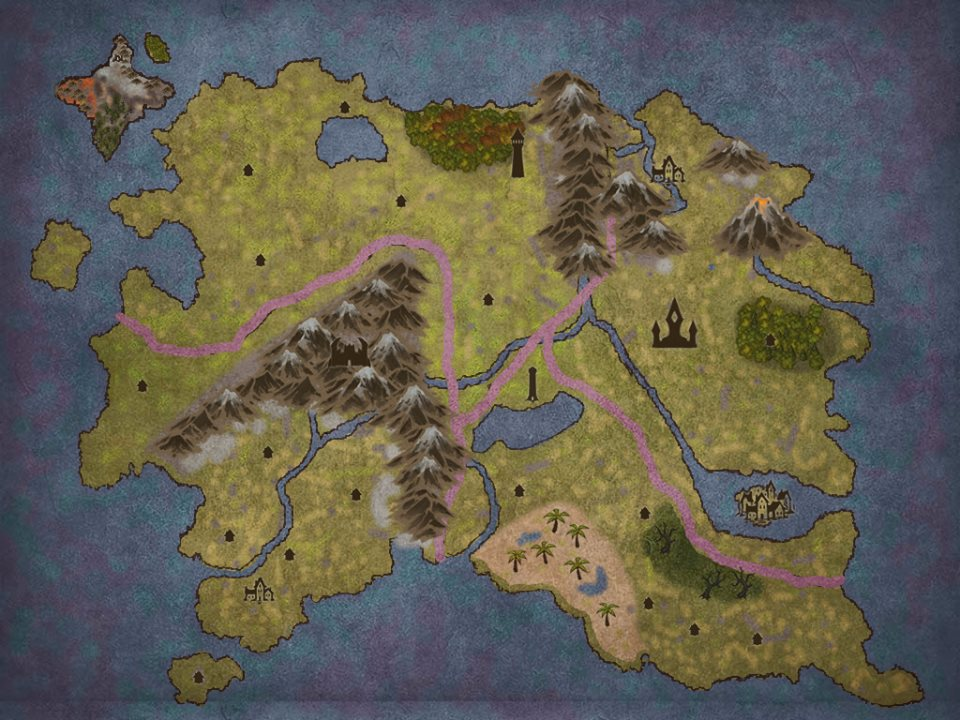
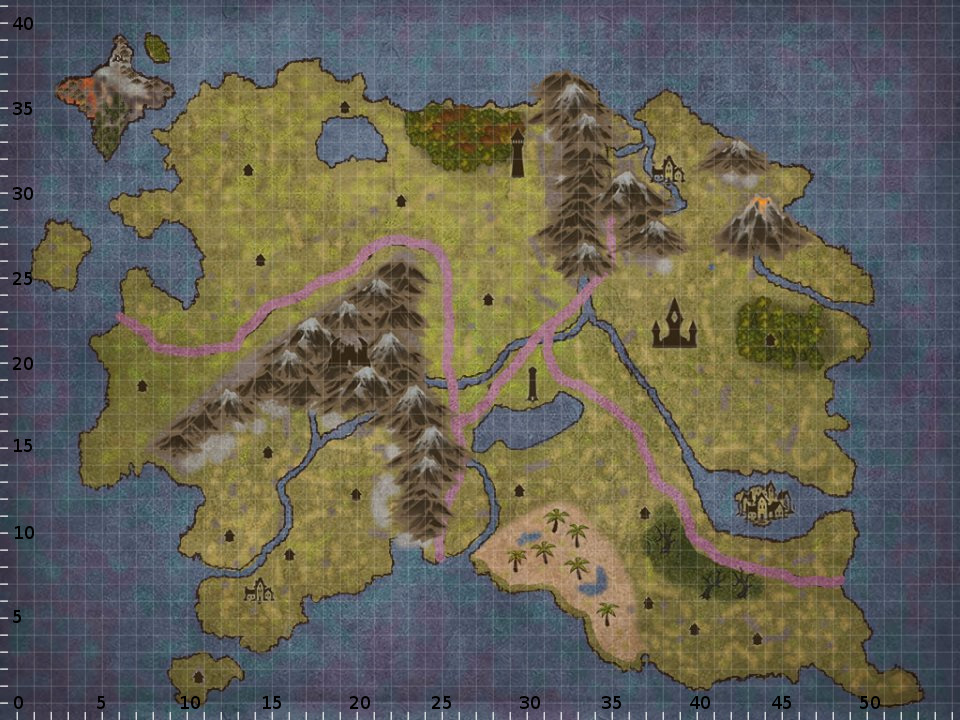
added grid to map

diff --git a/YamlValidator.py b/YamlValidator.py
@@ -1,0 +1,7 @@
+from yaml import load, Loader
+from pprint import pprint
+import sys
+if "v" in sys.argv:
+    pprint(load(open(sys.argv[1:][-1]), Loader=Loader))
+else:
+    print "valid: ", bool(load(open(sys.argv[1:][-1]), Loader=Loader))
